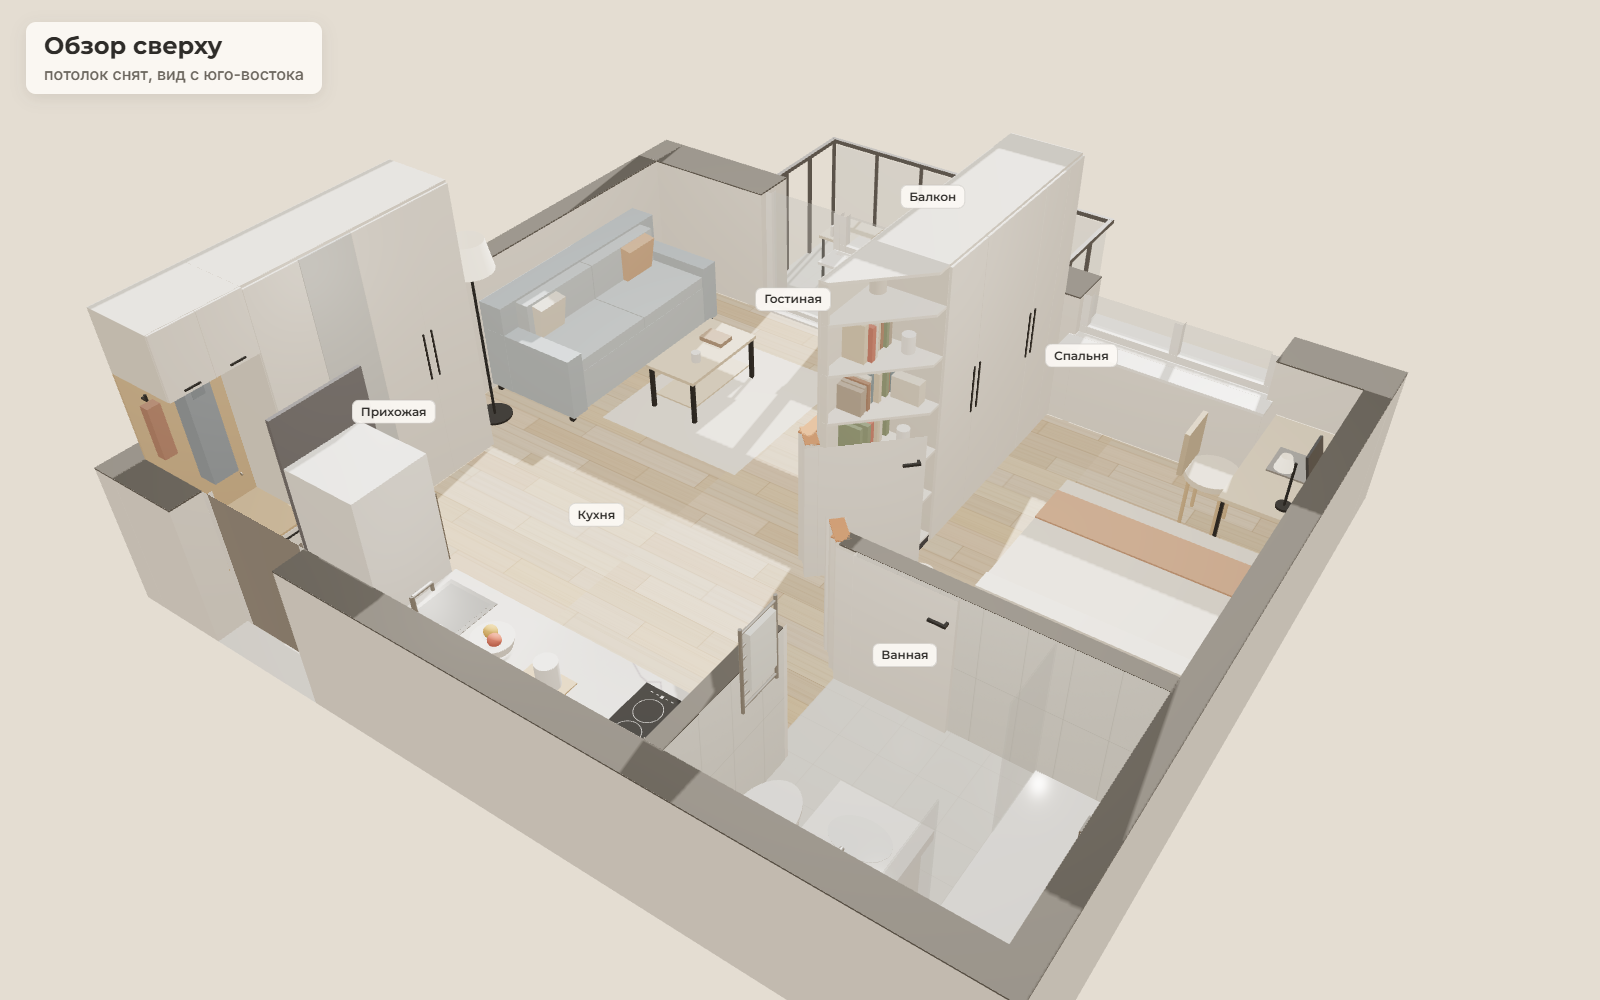
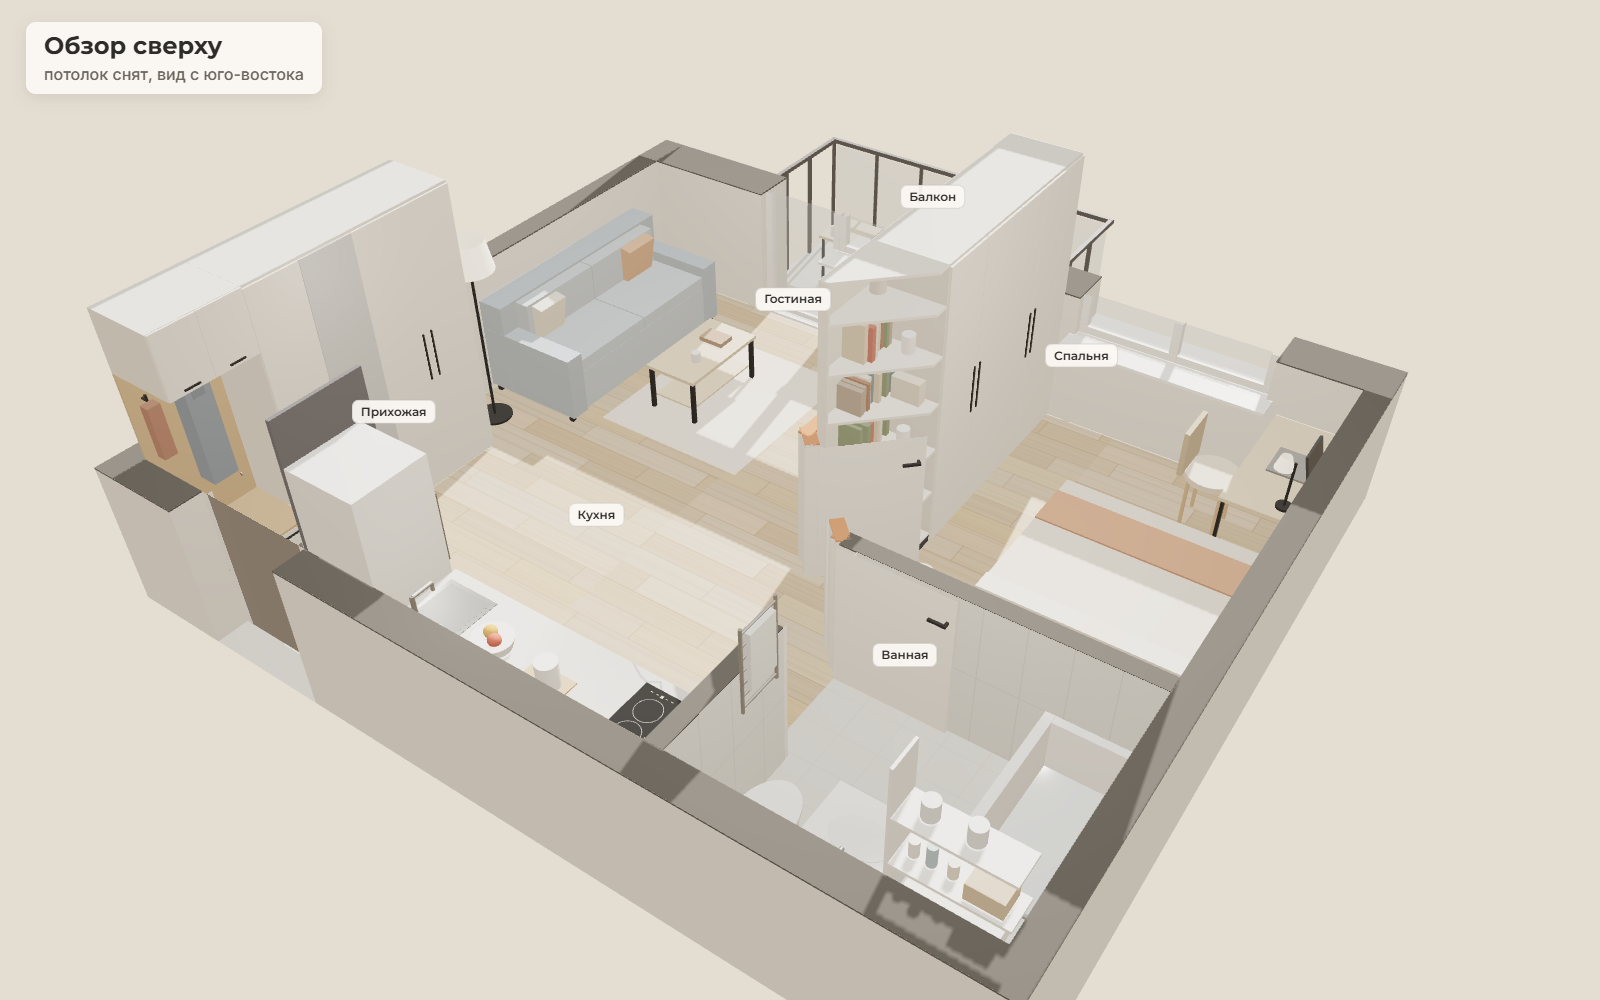
Ванна 170×70 с полками вместо душа
В ванной вдоль дальней стены ванна 170×70 с экраном, смеситель с изливом
и лейка на штанге у ног. В оставшихся 23 см у торца — короб под трубы
до высоты ванны и открытые полки выше. Обновлены 3D, план, электрика,
развёртка стены с раковиной, скриншоты и README.

Changed region(s): [[0.5312, 0.775, 0.6562, 0.992], [0.625, 0.713, 0.6875, 0.806], [0.6875, 0.744, 0.7188, 0.775]]

diff --git a/3d.html b/3d.html
@@ -409,12 +409,27 @@ box(5.29,5.81,0.64,0.7,4.964,4.97,M('#dedfdc',0.4));cyl(5.74,0.67,4.962,0.018,0.
 box(5.25,5.85,0.78,0.86,4.9,5.5,mat.ceramic,{block:true});cyl(5.55,0.862,5.17,0.19,0.004,M('#e6ecee',0.15),{sz:0.7});
 cyl(5.55,0.98,5.42,0.014,0.14,mat.chrome,{rx:Math.PI/2});cyl(5.55,1.02,5.47,0.02,0.05,mat.chrome);
 box(5.3,5.8,1.05,1.8,5.485,5.495,mat.mirror,{cast:false,p:groups.hung});box(5.3,5.8,1.81,1.83,5.47,5.495,mat.led,{cast:false,p:groups.hung});
-// shower 70×193
-box(5.88,6.58,0,0.04,3.565,5.5,mat.ceramic,{cast:false});
-box(5.875,5.885,0.04,2.0,3.565,4.15,mat.glass,{cast:false,block:true});box(5.875,5.885,0.04,2.0,4.95,5.5,mat.glass,{cast:false,block:true});
-box(5.872,5.888,1.99,2.01,3.565,5.5,mat.chrome,{p:groups.hung});
-cyl(6.56,1.45,4.6,0.012,1.1,mat.chrome,{p:groups.hung});box(6.55,6.58,0.98,1.12,4.54,4.66,mat.chrome);cyl(6.47,2.0,4.6,0.012,0.18,mat.chrome,{rz:Math.PI/2,p:groups.hung});cyl(6.38,1.99,4.6,0.12,0.015,mat.chrome,{p:groups.hung});
-box(6.18,6.28,0.041,0.043,5.25,5.35,M('#8a8f93',0.4,0.6));
+// bathtub 170×70 along the far wall, with a screen; open shelves in the 23.5 cm left at its foot
+{const T=mat.ceramic,x1=5.88,x2=6.58,z1=3.565,z2=5.265,top=0.6,r=0.07,bot=0.2;
+ box(x1,x1+r,0,top,z1,z2,T);box(x2-r,x2,bot,top,z1,z2,T);
+ box(x1+r,x2-r,bot,top,z1,z1+r,T);box(x1+r,x2-r,bot,top,z2-r,z2,T);
+ box(x1+r,x2-r,0,bot,z1+r,z2-r,M('#dce8ee',0.12));
+ box(x1-0.004,x1,0,0.07,z1,z2,M('#d9dcdd',0.5));
+ cyl(6.23,bot+0.002,5.1,0.024,0.004,mat.chrome);cyl(6.23,0.5,z2-r-0.002,0.024,0.006,mat.chrome,{rx:Math.PI/2});
+ // wall mixer with a spout at the foot end, hand shower on a slide bar
+ box(6.555,6.58,0.7,0.8,4.93,5.09,mat.chrome);cyl(6.49,0.72,5.01,0.013,0.13,mat.chrome,{rz:Math.PI/2});
+ [4.95,5.07].forEach(z=>cyl(6.53,0.775,z,0.018,0.05,mat.chrome,{rz:Math.PI/2}));
+ cyl(6.56,1.4,4.75,0.011,0.9,mat.chrome,{p:groups.hung});cyl(6.51,1.72,4.75,0.04,0.025,mat.chrome,{rz:Math.PI/2,p:groups.hung});
+ block(x1,x2,z1,5.5);}
+{const S2=M('#f4f2ee',0.45),tile=M('#eef0ef',0.55),x1=5.88,x2=6.58,z1=5.265,z2=5.5;
+ box(x1,x2,0,0.6,z1,z2,tile);
+ box(x1,x1+0.02,0.6,2.0,z1,z2,tile);box(x1,x2,1.98,2.0,z1,z2,tile,{p:groups.hung});
+ [0.95,1.3,1.65].forEach(y=>box(x1+0.02,x2,y-0.02,y,z1+0.01,z2,S2));
+ [[6.02,'#e6dccf'],[6.2,'#c9d6d6'],[6.38,'#e6dccf']].forEach(([x,c])=>cyl(x,0.68,5.38,0.075,0.2,M(c,0.95),{rx:Math.PI/2}));
+ [[5.98,0.11,'#f0ece6'],[6.08,0.14,'#8fb0bf'],[6.2,0.1,'#e9d9c4']].forEach(([x,h,c])=>cyl(x,1.3+h/2,5.38,0.03,h,M(c,0.35)));
+ box(6.3,6.52,1.3,1.42,5.3,5.47,M('#b89b78',0.9));
+ box(5.95,6.5,0.95,1.06,5.3,5.47,M('#f3efe8',0.95));
+ [6.05,6.3].forEach(x=>cyl(x,1.71,5.38,0.05,0.12,M('#dfe7e8',0.3)));}
 // heated towel rail
 cyl(4.52,1.22,4.48,0.012,0.68,mat.chrome);cyl(4.52,1.22,4.82,0.012,0.68,mat.chrome);
 for(let y=0.92;y<1.56;y+=0.1)cyl(4.52,y,4.65,0.01,0.34,mat.chrome,{rx:Math.PI/2,seg:8});
@@ -458,7 +473,7 @@ const VIEWS={
   'spalnya':{name:'Спальня',sub:'кровать 160×200, рабочий стол у окна',mode:'walk',p:[4.15,2.95],t:[6.1,0.85,1.2],fov:70},
   'shkaf':{name:'Шкаф в спальне',sub:'у окна заглушка 24 см: крайняя дверь открывается на 90° мимо подоконника',mode:'walk',p:[4.8,2.95],t:[4.5,0.95,0.1],fov:70,flaps:{sd0:1}},
   'polki':{name:'Полки за дверью спальни',sub:'дверь закрыта; открытая дверь встаёт вдоль полок',mode:'walk',p:[4.72,2.78],t:[3.9,1.15,2.35],fov:78,doors:{bed:0}},
-  'vannaya':{name:'Ванная',sub:'дверь внутрь к стене, СМ под раковиной, душ 70×193',mode:'walk',p:[4.43,3.97],t:[6.3,0.85,4.75],fov:74},
+  'vannaya':{name:'Ванная',sub:'ванна 170×70, в торце полки; СМ под раковиной',mode:'walk',p:[4.43,3.97],t:[6.3,0.85,4.75],fov:74},
 };
 const CHIPS=[['vhod','Вход'],['prihozhaya','Прихожая'],['gostinaya','Гостиная'],['kuhnya','Кухня'],['spalnya','Спальня'],['shkaf','Шкаф у окна'],['polki','Полки за дверью'],['vannaya','Ванная'],['sverhu','Сверху']];
 const LABELS=[['Гостиная',2.55,1.3,1.45],['Кухня',3.0,1.3,4.3],['Прихожая',1.1,1.3,4.25],['Спальня',4.75,1.3,0.9],['Ванная',5.25,1.3,4.25],['Балкон',2.4,1.1,-1.0]];

diff --git a/plan.html b/plan.html
@@ -400,12 +400,27 @@ box(5.29,5.81,0.64,0.7,4.964,4.97,M('#dedfdc',0.4));cyl(5.74,0.67,4.962,0.018,0.
 box(5.25,5.85,0.78,0.86,4.9,5.5,mat.ceramic,{block:true});cyl(5.55,0.862,5.17,0.19,0.004,M('#e6ecee',0.15),{sz:0.7});
 cyl(5.55,0.98,5.42,0.014,0.14,mat.chrome,{rx:Math.PI/2});cyl(5.55,1.02,5.47,0.02,0.05,mat.chrome);
 box(5.3,5.8,1.05,1.8,5.485,5.495,mat.mirror,{cast:false,p:groups.hung});box(5.3,5.8,1.81,1.83,5.47,5.495,mat.led,{cast:false,p:groups.hung});
-// shower 70×193
-box(5.88,6.58,0,0.04,3.565,5.5,mat.ceramic,{cast:false});
-box(5.875,5.885,0.04,2.0,3.565,4.15,mat.glass,{cast:false,block:true});box(5.875,5.885,0.04,2.0,4.95,5.5,mat.glass,{cast:false,block:true});
-box(5.872,5.888,1.99,2.01,3.565,5.5,mat.chrome,{p:groups.hung});
-cyl(6.56,1.45,4.6,0.012,1.1,mat.chrome,{p:groups.hung});box(6.55,6.58,0.98,1.12,4.54,4.66,mat.chrome);cyl(6.47,2.0,4.6,0.012,0.18,mat.chrome,{rz:Math.PI/2,p:groups.hung});cyl(6.38,1.99,4.6,0.12,0.015,mat.chrome,{p:groups.hung});
-box(6.18,6.28,0.041,0.043,5.25,5.35,M('#8a8f93',0.4,0.6));
+// bathtub 170×70 along the far wall, with a screen; open shelves in the 23.5 cm left at its foot
+{const T=mat.ceramic,x1=5.88,x2=6.58,z1=3.565,z2=5.265,top=0.6,r=0.07,bot=0.2;
+ box(x1,x1+r,0,top,z1,z2,T);box(x2-r,x2,bot,top,z1,z2,T);
+ box(x1+r,x2-r,bot,top,z1,z1+r,T);box(x1+r,x2-r,bot,top,z2-r,z2,T);
+ box(x1+r,x2-r,0,bot,z1+r,z2-r,M('#dce8ee',0.12));
+ box(x1-0.004,x1,0,0.07,z1,z2,M('#d9dcdd',0.5));
+ cyl(6.23,bot+0.002,5.1,0.024,0.004,mat.chrome);cyl(6.23,0.5,z2-r-0.002,0.024,0.006,mat.chrome,{rx:Math.PI/2});
+ // wall mixer with a spout at the foot end, hand shower on a slide bar
+ box(6.555,6.58,0.7,0.8,4.93,5.09,mat.chrome);cyl(6.49,0.72,5.01,0.013,0.13,mat.chrome,{rz:Math.PI/2});
+ [4.95,5.07].forEach(z=>cyl(6.53,0.775,z,0.018,0.05,mat.chrome,{rz:Math.PI/2}));
+ cyl(6.56,1.4,4.75,0.011,0.9,mat.chrome,{p:groups.hung});cyl(6.51,1.72,4.75,0.04,0.025,mat.chrome,{rz:Math.PI/2,p:groups.hung});
+ block(x1,x2,z1,5.5);}
+{const S2=M('#f4f2ee',0.45),tile=M('#eef0ef',0.55),x1=5.88,x2=6.58,z1=5.265,z2=5.5;
+ box(x1,x2,0,0.6,z1,z2,tile);
+ box(x1,x1+0.02,0.6,2.0,z1,z2,tile);box(x1,x2,1.98,2.0,z1,z2,tile,{p:groups.hung});
+ [0.95,1.3,1.65].forEach(y=>box(x1+0.02,x2,y-0.02,y,z1+0.01,z2,S2));
+ [[6.02,'#e6dccf'],[6.2,'#c9d6d6'],[6.38,'#e6dccf']].forEach(([x,c])=>cyl(x,0.68,5.38,0.075,0.2,M(c,0.95),{rx:Math.PI/2}));
+ [[5.98,0.11,'#f0ece6'],[6.08,0.14,'#8fb0bf'],[6.2,0.1,'#e9d9c4']].forEach(([x,h,c])=>cyl(x,1.3+h/2,5.38,0.03,h,M(c,0.35)));
+ box(6.3,6.52,1.3,1.42,5.3,5.47,M('#b89b78',0.9));
+ box(5.95,6.5,0.95,1.06,5.3,5.47,M('#f3efe8',0.95));
+ [6.05,6.3].forEach(x=>cyl(x,1.71,5.38,0.05,0.12,M('#dfe7e8',0.3)));}
 // heated towel rail
 cyl(4.52,1.22,4.48,0.012,0.68,mat.chrome);cyl(4.52,1.22,4.82,0.012,0.68,mat.chrome);
 for(let y=0.92;y<1.56;y+=0.1)cyl(4.52,y,4.65,0.01,0.34,mat.chrome,{rx:Math.PI/2,seg:8});

diff --git a/README.md b/README.md
@@ -27,7 +27,7 @@
 - Между гостиной и кухней пока свободно: обеденный стол, стулья и светильник над ними подберём позже.
 - Прихожая: у входа слева открытая ниша 70 см — внизу тумба, выше крючки, наверху антресоль. Дальше шкаф 60×180 на четыре дверки, третья с зеркалом; в секции у ниши — щиток с автоматами.
 - Спальня: шкаф 60×200. У окна неподвижная заглушка 24 см, потому что подоконник выступает на 20 см: так крайняя дверь открывается на 90° мимо него. Двери 38+38 и 50+50 см. Дверь в спальню открывается к шкафу, за ней полки со срезом под 45°.
-- Ванная: дверь открывается внутрь к стене, стиральная машина под раковиной, душ 70×193.
+- Ванная: дверь открывается внутрь к стене, стиральная машина под раковиной, ванна 170×70 вдоль дальней стены. В оставшиеся 23 см у её торца — открытые полки, а снизу, до высоты ванны, короб под трубы.
 
 Мебель условная: размеры и места по плану, без конкретных моделей.
 
